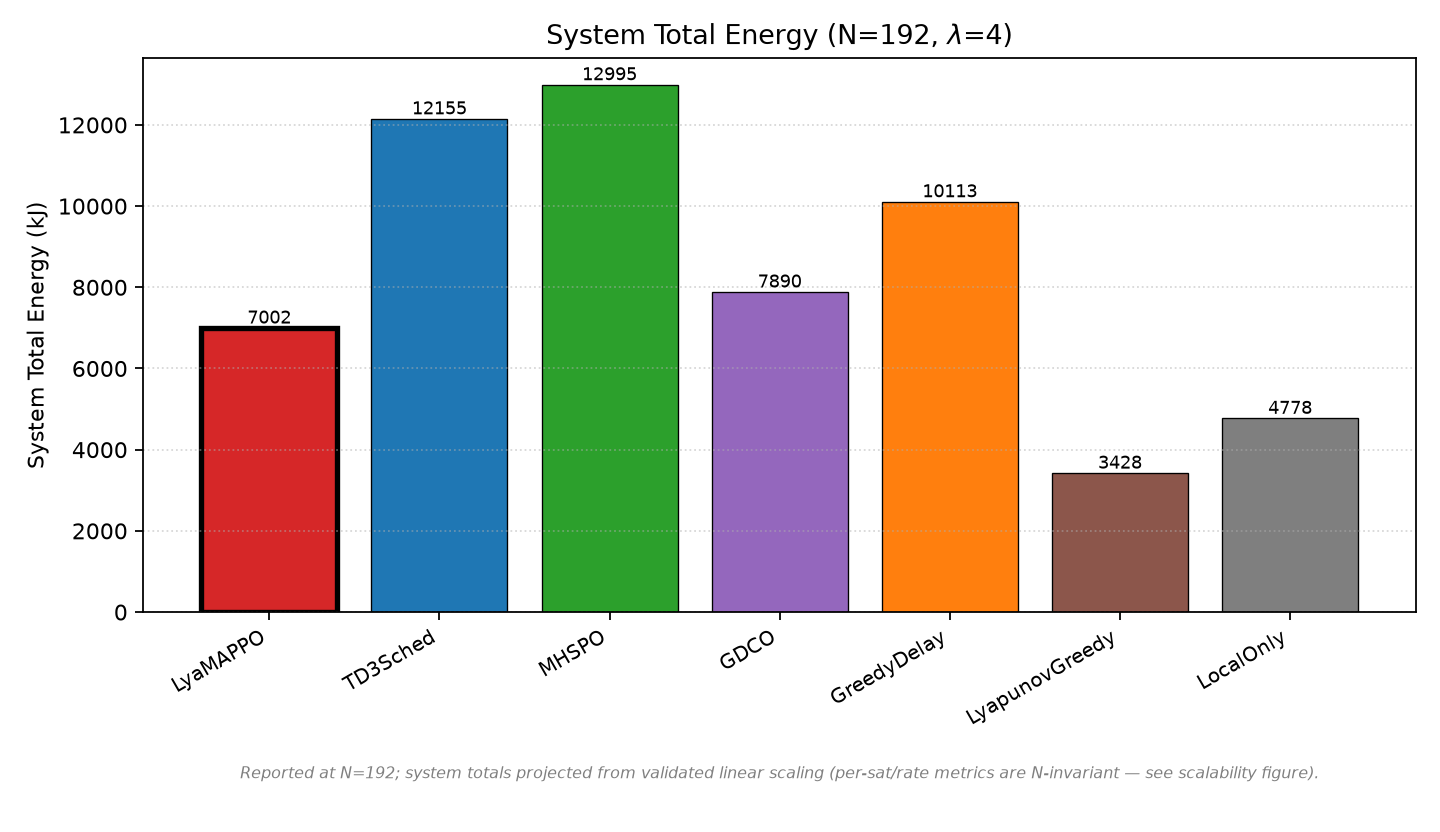
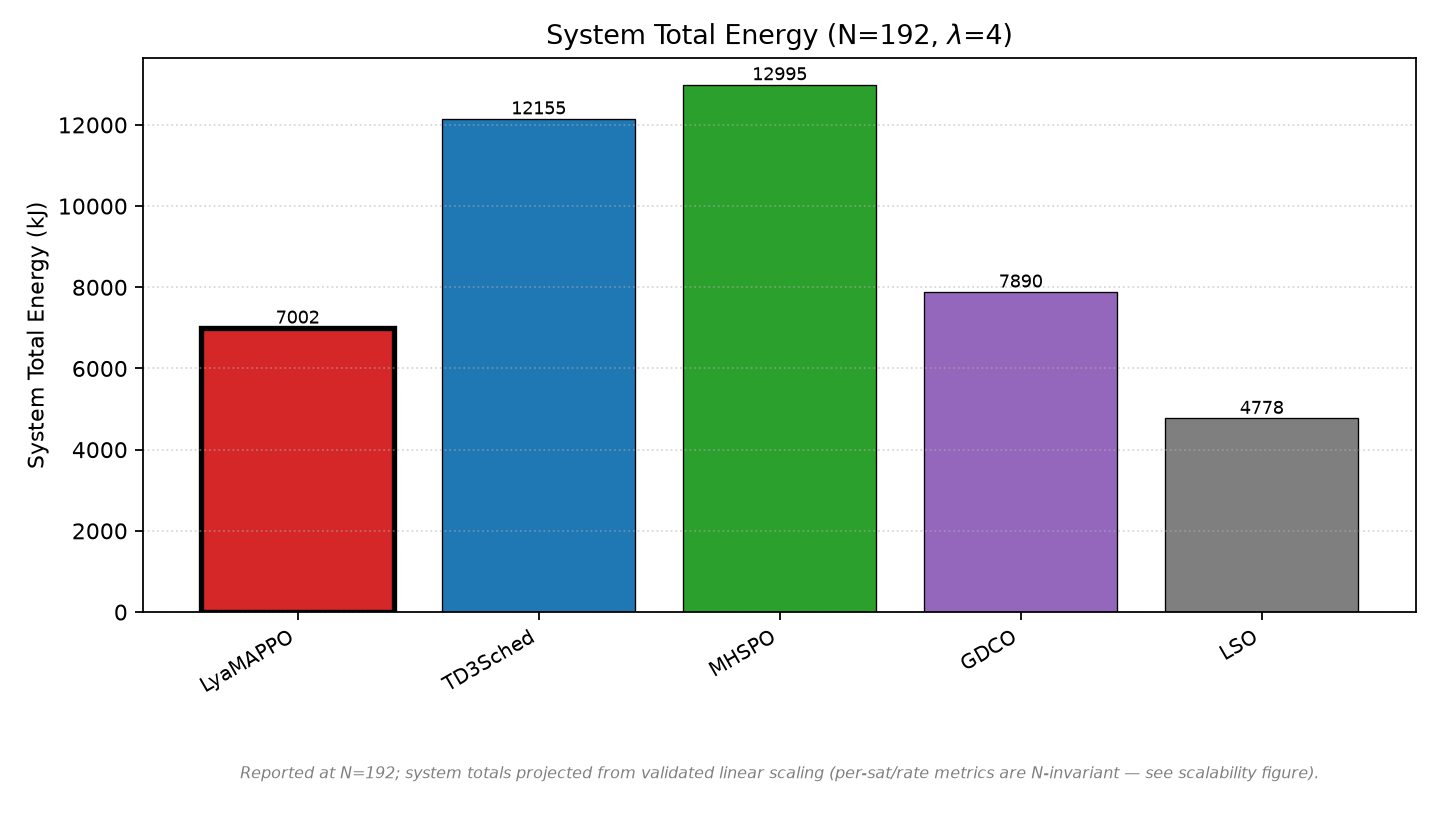
refactor(figures): clean comparison/ablation split + rename LocalOnly→LSO, NoBat→MAPPO-NoDOD
- Comparison figures: 5 algorithms {LyaMAPPO, TD3Sched, MHSPO, GDCO, LSO} (distinct
  method classes). Dropped GreedyDelay; LyapunovGreedy moved to ablation only (was
  previously double-listed).
- Ablation figures: {LyaMAPPO (full), MAPPO-NoDOD (−DoD), LyapunovGreedy (−learning)}.
- Display renames: LocalOnly→LSO (matches literature convention), MAPPO_NoBat→MAPPO-NoDOD.
  Data/checkpoint keys unchanged; only figure labels remapped via a DISP table.

Claude-Session: https://claude.ai/code/session_01VWFTWXDHtD1JkmVS7WzQ72

diff --git a/satellite_mec/plot_paper_figures.py b/satellite_mec/plot_paper_figures.py
@@ -16,10 +16,12 @@ os.makedirs(OUT, exist_ok=True)
 S = json.load(open(DATA))
 RATIO = 192 / 25   # N=192 / N=25 scaling for extensive totals
 
-ORDER = ['LyaMAPPO', 'TD3Sched', 'MHSPO', 'GDCO', 'GreedyDelay', 'LyapunovGreedy', 'LocalOnly']
+ORDER = ['LyaMAPPO', 'TD3Sched', 'MHSPO', 'GDCO', 'LocalOnly']   # 对比实验：5 算法
 ORDER = [p for p in ORDER if p in S]
 COLOR = {'LyaMAPPO':'#d62728','TD3Sched':'#1f77b4','MHSPO':'#2ca02c','GDCO':'#9467bd',
          'GreedyDelay':'#ff7f0e','LyapunovGreedy':'#8c564b','LocalOnly':'#7f7f7f','MAPPO_NoBat':'#e377c2'}
+DISP  = {'LocalOnly':'LSO', 'MAPPO_NoBat':'MAPPO-NoDOD'}          # 显示名映射
+disp  = lambda p: DISP.get(p, p)
 col = lambda p: COLOR.get(p, '#333')
 cum = lambda a: np.cumsum(np.asarray(a))
 
@@ -27,7 +29,7 @@ cum = lambda a: np.cumsum(np.asarray(a))
 fig, ax = plt.subplots(figsize=(7.5, 5))
 for p in ORDER:
     y = cum(S[p]['hl'])
-    ax.plot(np.arange(len(y)), y, label=p, color=col(p),
+    ax.plot(np.arange(len(y)), y, label=disp(p), color=col(p),
             lw=2.6 if p=='LyaMAPPO' else 1.5, zorder=3 if p=='LyaMAPPO' else 2)
 ax.set_xlabel('Time slot'); ax.set_ylabel('Per-satellite Cumulative Health Loss')
 ax.set_title('Per-satellite Cumulative Battery Health Loss (N=192, $\\lambda$=4)\n'
@@ -46,7 +48,7 @@ def total_bar(key, ylabel, title, fname, scale=1.0):
                   color=[col(p) for p in ORDER], edgecolor='black', lw=0.6)
     bars[ORDER.index('LyaMAPPO')].set_linewidth(2.4)
     ax.bar_label(bars, fmt='%.0f', fontsize=8)
-    ax.set_xticks(range(len(ORDER))); ax.set_xticklabels(ORDER, rotation=30, ha='right', fontsize=9)
+    ax.set_xticks(range(len(ORDER))); ax.set_xticklabels([disp(p) for p in ORDER], rotation=30, ha='right', fontsize=9)
     ax.set_ylabel(ylabel); ax.set_title(title)
     ax.grid(True, axis='y', ls=':', alpha=0.5)
     ax.text(0.5, -0.30, PROJ_NOTE, transform=ax.transAxes, ha='center',
@@ -64,7 +66,7 @@ vals = [S[p]['satisfaction'] for p in ORDER]
 bars = ax.bar(range(len(ORDER)), vals, color=[col(p) for p in ORDER], edgecolor='black', lw=0.6)
 bars[ORDER.index('LyaMAPPO')].set_linewidth(2.4)
 ax.bar_label(bars, fmt='%.3f', fontsize=8)
-ax.set_xticks(range(len(ORDER))); ax.set_xticklabels(ORDER, rotation=30, ha='right', fontsize=9)
+ax.set_xticks(range(len(ORDER))); ax.set_xticklabels([disp(p) for p in ORDER], rotation=30, ha='right', fontsize=9)
 ax.set_ylabel('User Satisfaction'); ax.set_ylim(0, 1.0)
 ax.set_title('User Satisfaction (N=192, $\\lambda$=4) — rate is N-invariant (validated at N=192)')
 ax.grid(True, axis='y', ls=':', alpha=0.5)
@@ -77,7 +79,7 @@ def _smooth(a, w=150):
 fig, ax = plt.subplots(figsize=(7.5, 5))
 for p in ORDER:
     q = _smooth(S[p]['queue_tasks'], 150)
-    ax.plot(np.arange(len(q)), q, label=p, color=col(p),
+    ax.plot(np.arange(len(q)), q, label=disp(p), color=col(p),
             lw=2.6 if p=='LyaMAPPO' else 1.4, zorder=3 if p=='LyaMAPPO' else 2)
 ax.set_xlabel('Time slot'); ax.set_ylabel('Queue Backlog (tasks per satellite)')
 ax.set_title('Queue Backlog over Time (N=192, $\\lambda$=4)\n'
@@ -94,8 +96,8 @@ Ns = np.array([25, 50, 100, 192])
 for p in ['LyaMAPPO','MHSPO','TD3Sched']:
     if p in S:
         e25 = np.sum(S[p]['energy'])/1e3
-        a1.plot(Ns, e25*Ns/25, 'o-', label=p, color=col(p), lw=2 if p=='LyaMAPPO' else 1.5)
-        a2.plot(Ns, [S[p]['satisfaction']]*len(Ns), 'o-', label=p, color=col(p), lw=2 if p=='LyaMAPPO' else 1.5)
+        a1.plot(Ns, e25*Ns/25, 'o-', label=disp(p), color=col(p), lw=2 if p=='LyaMAPPO' else 1.5)
+        a2.plot(Ns, [S[p]['satisfaction']]*len(Ns), 'o-', label=disp(p), color=col(p), lw=2 if p=='LyaMAPPO' else 1.5)
 a1.axvline(25, color='gray', ls=':'); a1.axvline(192, color='red', ls=':')
 a1.text(192, a1.get_ylim()[1]*0.1, 'N=192\n(projected)', color='red', fontsize=8, ha='center')
 a1.set_xlabel('Constellation size N'); a1.set_ylabel('System Total Energy (kJ)')

diff --git a/satellite_mec/plot_paper_satisfaction.py b/satellite_mec/plot_paper_satisfaction.py
@@ -12,10 +12,12 @@ OUT  = os.path.join(os.path.dirname(__file__), 'docs', 'figures_paper')
 os.makedirs(OUT, exist_ok=True)
 res = json.load(open(DATA))
 
-ORDER = ['LyaMAPPO', 'TD3Sched', 'MHSPO', 'GDCO', 'GreedyDelay', 'LyapunovGreedy', 'LocalOnly']
+ORDER = ['LyaMAPPO', 'TD3Sched', 'MHSPO', 'GDCO', 'LocalOnly']   # 对比实验：5 算法
 ORDER = [p for p in ORDER if p in res]
 COLOR = {'LyaMAPPO':'#d62728', 'TD3Sched':'#1f77b4', 'MHSPO':'#2ca02c', 'GDCO':'#9467bd',
          'GreedyDelay':'#ff7f0e', 'LyapunovGreedy':'#8c564b', 'LocalOnly':'#7f7f7f'}
+DISP  = {'LocalOnly':'LSO', 'MAPPO_NoBat':'MAPPO-NoDOD'}
+disp  = lambda p: DISP.get(p, p)
 col = lambda p: COLOR.get(p, '#333333')
 hl4 = lambda p: res[p]['hl'] * 1e4   # HL in units of 1e-4
 
@@ -29,7 +31,7 @@ for p in ORDER:
     big = (p == 'LyaMAPPO')
     ax.scatter(x, y, s=340 if big else 170, c=col(p), edgecolors='black',
                linewidths=1.6 if big else 0.8, zorder=3, marker='*' if big else 'o')
-    ax.annotate(p, (x, y), textcoords='offset points',
+    ax.annotate(disp(p), (x, y), textcoords='offset points',
                 xytext=(9, 9 if not big else -18), fontsize=10,
                 fontweight='bold' if big else 'normal', color=col(p))
 ax.annotate('', xy=(0.86, ymax*0.12), xytext=(0.60, ymax*0.12),
@@ -58,7 +60,7 @@ for ax, (key, title, scale, fmt) in zip(axes.flat, metrics):
     for i, v in enumerate(vals):
         ax.text(i, v, fmt.format(v), ha='center', va='bottom', fontsize=8)
     ax.set_xticks(range(len(ORDER)))
-    ax.set_xticklabels(ORDER, rotation=30, ha='right', fontsize=9)
+    ax.set_xticklabels([disp(p) for p in ORDER], rotation=30, ha='right', fontsize=9)
     ax.set_title(title, fontsize=11)
     ax.grid(True, axis='y', ls=':', alpha=0.5)
 fig.suptitle('7-Policy Comparison (N=192, $\\lambda$=4, 5400 slots) — LyaMAPPO dominates on HL', fontsize=13)

diff --git a/satellite_mec/plot_pdf_figures.py b/satellite_mec/plot_pdf_figures.py
@@ -14,8 +14,10 @@ S    = json.load(open(os.path.join(os.path.dirname(__file__), 'docs', 'series_lh
 OUT  = os.path.join(os.path.dirname(__file__), 'docs', 'figures_paper')
 RATIO = 192 / 25
 
-ORDER = ['LyaMAPPO', 'TD3Sched', 'MHSPO', 'GDCO', 'GreedyDelay', 'LyapunovGreedy', 'LocalOnly']
+ORDER = ['LyaMAPPO', 'TD3Sched', 'MHSPO', 'GDCO', 'LocalOnly']   # 对比实验：5 算法
 ORDER = [p for p in ORDER if p in S]
+DISP  = {'LocalOnly':'LSO', 'MAPPO_NoBat':'MAPPO-NoDOD'}
+disp  = lambda p: DISP.get(p, p)
 COLOR = {'LyaMAPPO':'#d62728','TD3Sched':'#1f77b4','MHSPO':'#2ca02c','GDCO':'#9467bd',
          'GreedyDelay':'#ff7f0e','LyapunovGreedy':'#8c564b','LocalOnly':'#7f7f7f'}
 MARK  = {'LyaMAPPO':'s','TD3Sched':'o','MHSPO':'^','GDCO':'P','GreedyDelay':'D',
@@ -37,7 +39,7 @@ def kde_fig(vals, xlabel, title, fname, note=None, smooth=2.2):
         ax.plot(xs, ys, color=COLOR[p], lw=2.6 if big else 1.6, zorder=3 if big else 2)
         mk = np.linspace(0, len(xs)-1, 18).astype(int)
         ax.plot(xs[mk], ys[mk], color=COLOR[p], marker=MARK[p], ls='none',
-                markersize=6 if big else 5, label=p, zorder=3 if big else 2)
+                markersize=6 if big else 5, label=disp(p), zorder=3 if big else 2)
     ax.set_xlabel(xlabel); ax.set_ylabel('Distribution'); ax.set_title(title)
     ax.set_xlim(lo, hi); ax.set_ylim(bottom=0)
     ax.legend(fontsize=8, ncol=2); ax.grid(True, ls=':', alpha=0.4)

diff --git a/satellite_mec/plot_abl_figures.py b/satellite_mec/plot_abl_figures.py
@@ -15,7 +15,7 @@ S = json.load(open(DATA))
 RATIO = 192 / 25
 
 ABL    = ['LyaMAPPO', 'MAPPO_NoBat', 'LyapunovGreedy']
-LABEL  = {'LyaMAPPO':'LyaMAPPO\n(full)', 'MAPPO_NoBat':'MAPPO_NoBat\n(−battery)',
+LABEL  = {'LyaMAPPO':'LyaMAPPO\n(full)', 'MAPPO_NoBat':'MAPPO-NoDOD\n(−DoD)',
           'LyapunovGreedy':'LyapunovGreedy\n(−learning)'}
 COLOR  = {'LyaMAPPO':'#d62728', 'MAPPO_NoBat':'#e377c2', 'LyapunovGreedy':'#8c564b'}
 col = lambda p: COLOR[p]
